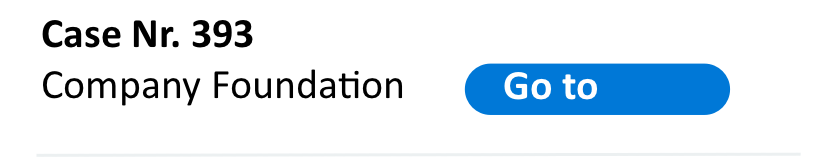
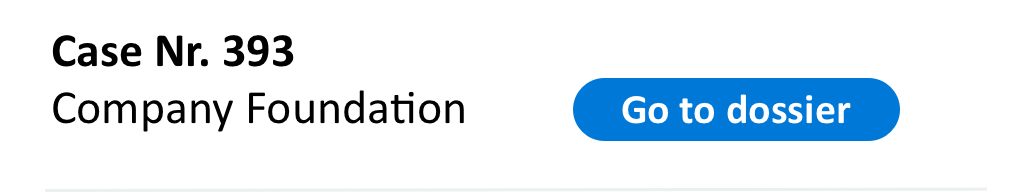
updated design

diff --git a/outlook/styles.css b/outlook/styles.css
@@ -15,15 +15,15 @@
 /* Specific to Outlook */
 .sk-ab.sk-Outlook {
 	background-color: #FFFFFF;
-	width: 1260px;
+	width: 1549px;
 	height: 835px;
 }
 
 .sk-asset.sk-Contrasting-Dynamics-365-App-for-Outlook {
-	width: 1259px;
-	height: 675px;
-	left: 1px;
-	top: 0px;
+	width: 1545px;
+	height: 829px;
+	left: 3px;
+	top: 4px;
 	background-image: url("images/Contrasting-Dynamics-365-App-for-Outlook.png");
 }
 
@@ -33,7 +33,7 @@ only screen and (-webkit-min-device-pixel-ratio: 2),
 only screen and (min-device-pixel-ratio: 2) {
 	.sk-asset.sk-Contrasting-Dynamics-365-App-for-Outlook {
 		background-image: url("images/Contrasting-Dynamics-365-App-for-Outlook@2x.png");
-		background-size: 1259px 675px;
+		background-size: 1545px 829px;
 	}
 }
 @media only screen and (min--moz-device-pixel-ratio: 3),
@@ -42,14 +42,14 @@ only screen and (-webkit-min-device-pixel-ratio: 3),
 only screen and (min-device-pixel-ratio: 3) {
 	.sk-asset.sk-Contrasting-Dynamics-365-App-for-Outlook {
 		background-image: url("images/Contrasting-Dynamics-365-App-for-Outlook@3x.png");
-		background-size: 1259px 675px;
+		background-size: 1545px 829px;
 	}
 }
 .sk-asset.sk-BG-Grey {
-	width: 288px;
-	height: 528px;
-	left: 972px;
-	top: 130px;
+	width: 355px;
+	height: 646px;
+	left: 1193px;
+	top: 167px;
 	background-image: url("images/BG Grey.png");
 }
 
@@ -59,7 +59,7 @@ only screen and (-webkit-min-device-pixel-ratio: 2),
 only screen and (min-device-pixel-ratio: 2) {
 	.sk-asset.sk-BG-Grey {
 		background-image: url("images/BG Grey@2x.png");
-		background-size: 288px 528px;
+		background-size: 355px 646px;
 	}
 }
 @media only screen and (min--moz-device-pixel-ratio: 3),
@@ -68,14 +68,14 @@ only screen and (-webkit-min-device-pixel-ratio: 3),
 only screen and (min-device-pixel-ratio: 3) {
 	.sk-asset.sk-BG-Grey {
 		background-image: url("images/BG Grey@3x.png");
-		background-size: 288px 528px;
+		background-size: 355px 646px;
 	}
 }
 .sk-asset.sk-Last-Activities {
-	width: 275px;
-	height: 101px;
-	left: 977px;
-	top: 415px;
+	width: 339px;
+	height: 123px;
+	left: 1200px;
+	top: 516px;
 	background-image: url("images/Last Activities.png");
 }
 
@@ -85,7 +85,7 @@ only screen and (-webkit-min-device-pixel-ratio: 2),
 only screen and (min-device-pixel-ratio: 2) {
 	.sk-asset.sk-Last-Activities {
 		background-image: url("images/Last Activities@2x.png");
-		background-size: 275px 101px;
+		background-size: 339px 123px;
 	}
 }
 @media only screen and (min--moz-device-pixel-ratio: 3),
@@ -94,14 +94,14 @@ only screen and (-webkit-min-device-pixel-ratio: 3),
 only screen and (min-device-pixel-ratio: 3) {
 	.sk-asset.sk-Last-Activities {
 		background-image: url("images/Last Activities@3x.png");
-		background-size: 275px 101px;
+		background-size: 339px 123px;
 	}
 }
 .sk-asset.sk-Detected-Relations {
-	width: 275px;
-	height: 101px;
-	left: 977px;
-	top: 310px;
+	width: 339px;
+	height: 123px;
+	left: 1200px;
+	top: 386px;
 	background-image: url("images/Detected Relations.png");
 }
 
@@ -111,7 +111,7 @@ only screen and (-webkit-min-device-pixel-ratio: 2),
 only screen and (min-device-pixel-ratio: 2) {
 	.sk-asset.sk-Detected-Relations {
 		background-image: url("images/Detected Relations@2x.png");
-		background-size: 275px 101px;
+		background-size: 339px 123px;
 	}
 }
 @media only screen and (min--moz-device-pixel-ratio: 3),
@@ -120,14 +120,14 @@ only screen and (-webkit-min-device-pixel-ratio: 3),
 only screen and (min-device-pixel-ratio: 3) {
 	.sk-asset.sk-Detected-Relations {
 		background-image: url("images/Detected Relations@3x.png");
-		background-size: 275px 101px;
+		background-size: 339px 123px;
 	}
 }
 .sk-asset.sk-Case-225 {
-	width: 275px;
-	height: 53px;
-	left: 977px;
-	top: 250px;
+	width: 339px;
+	height: 64px;
+	left: 1200px;
+	top: 314px;
 	background-image: url("images/Case 225.png");
 }
 
@@ -137,7 +137,7 @@ only screen and (-webkit-min-device-pixel-ratio: 2),
 only screen and (min-device-pixel-ratio: 2) {
 	.sk-asset.sk-Case-225 {
 		background-image: url("images/Case 225@2x.png");
-		background-size: 275px 53px;
+		background-size: 339px 64px;
 	}
 }
 @media only screen and (min--moz-device-pixel-ratio: 3),
@@ -146,14 +146,14 @@ only screen and (-webkit-min-device-pixel-ratio: 3),
 only screen and (min-device-pixel-ratio: 3) {
 	.sk-asset.sk-Case-225 {
 		background-image: url("images/Case 225@3x.png");
-		background-size: 275px 53px;
+		background-size: 339px 64px;
 	}
 }
 .sk-asset.sk-Case-393 {
-	width: 275px;
-	height: 54px;
-	left: 977px;
-	top: 198px;
+	width: 339px;
+	height: 65px;
+	left: 1200px;
+	top: 250px;
 	background-image: url("images/Case 393.png");
 }
 
@@ -163,7 +163,7 @@ only screen and (-webkit-min-device-pixel-ratio: 2),
 only screen and (min-device-pixel-ratio: 2) {
 	.sk-asset.sk-Case-393 {
 		background-image: url("images/Case 393@2x.png");
-		background-size: 275px 54px;
+		background-size: 339px 65px;
 	}
 }
 @media only screen and (min--moz-device-pixel-ratio: 3),
@@ -172,14 +172,14 @@ only screen and (-webkit-min-device-pixel-ratio: 3),
 only screen and (min-device-pixel-ratio: 3) {
 	.sk-asset.sk-Case-393 {
 		background-image: url("images/Case 393@3x.png");
-		background-size: 275px 54px;
+		background-size: 339px 65px;
 	}
 }
 .sk-asset.sk-Detected-Cases {
-	width: 275px;
-	height: 28px;
-	left: 977px;
-	top: 171px;
+	width: 339px;
+	height: 34px;
+	left: 1200px;
+	top: 217px;
 	background-image: url("images/Detected Cases.png");
 }
 
@@ -189,7 +189,7 @@ only screen and (-webkit-min-device-pixel-ratio: 2),
 only screen and (min-device-pixel-ratio: 2) {
 	.sk-asset.sk-Detected-Cases {
 		background-image: url("images/Detected Cases@2x.png");
-		background-size: 275px 28px;
+		background-size: 339px 34px;
 	}
 }
 @media only screen and (min--moz-device-pixel-ratio: 3),
@@ -198,14 +198,14 @@ only screen and (-webkit-min-device-pixel-ratio: 3),
 only screen and (min-device-pixel-ratio: 3) {
 	.sk-asset.sk-Detected-Cases {
 		background-image: url("images/Detected Cases@3x.png");
-		background-size: 275px 28px;
+		background-size: 339px 34px;
 	}
 }
 .sk-asset.sk-Header {
-	width: 288px;
-	height: 47px;
-	left: 972px;
-	top: 130px;
+	width: 355px;
+	height: 39px;
+	left: 1193px;
+	top: 167px;
 	background-image: url("images/Header.png");
 }
 
@@ -215,7 +215,7 @@ only screen and (-webkit-min-device-pixel-ratio: 2),
 only screen and (min-device-pixel-ratio: 2) {
 	.sk-asset.sk-Header {
 		background-image: url("images/Header@2x.png");
-		background-size: 288px 47px;
+		background-size: 355px 39px;
 	}
 }
 @media only screen and (min--moz-device-pixel-ratio: 3),
@@ -224,6 +224,6 @@ only screen and (-webkit-min-device-pixel-ratio: 3),
 only screen and (min-device-pixel-ratio: 3) {
 	.sk-asset.sk-Header {
 		background-image: url("images/Header@3x.png");
-		background-size: 288px 47px;
+		background-size: 355px 39px;
 	}
 }
